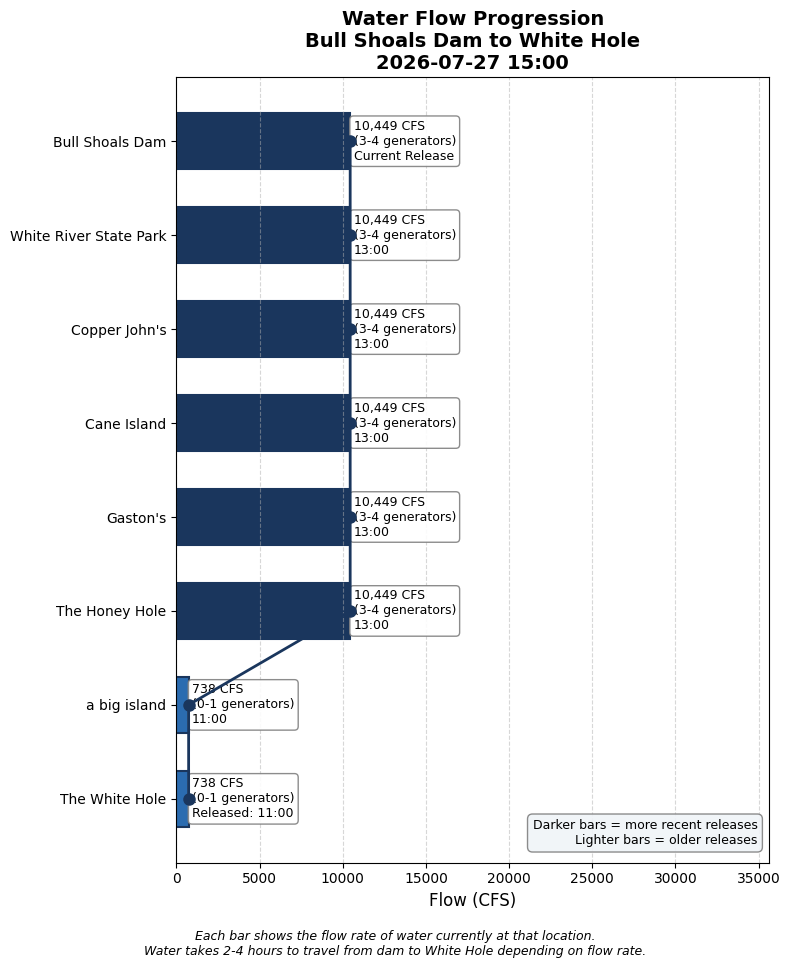
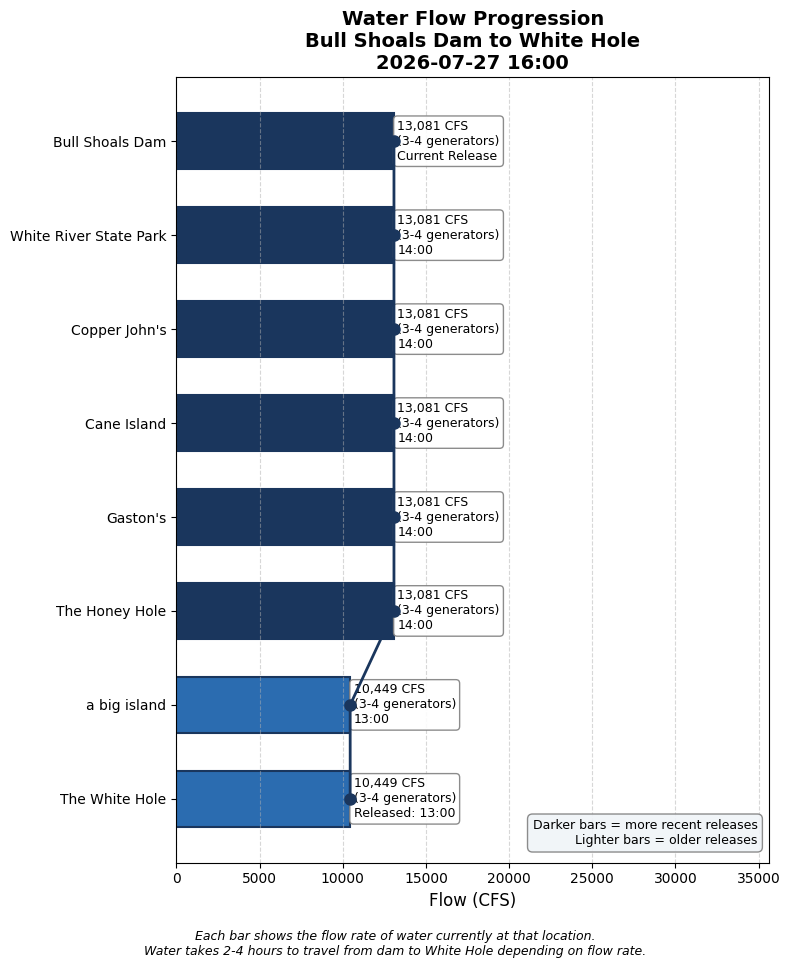
Update water conditions 2026-07-27 16:00

Changed region(s): [[0.2127, 0.093, 0.638, 0.8678]]

diff --git a/white_hole_conditions.html b/white_hole_conditions.html
@@ -3,7 +3,7 @@
 <head>
     <meta charset="UTF-8">
     <meta name="viewport" content="width=device-width, initial-scale=1.0">
-    <title>White Hole Conditions - 2026-07-27 15:00</title>
+    <title>White Hole Conditions - 2026-07-27 16:00</title>
     <style>
         body {
             font-family: -apple-system, BlinkMacSystemFont, 'Segoe UI', Roboto, sans-serif;
@@ -23,7 +23,7 @@
             margin-bottom: 20px;
         }
         .headline-banner {
-            background-color: #319795;
+            background-color: #1a365d;
             color: white;
             border-radius: 12px;
             padding: 25px;
@@ -73,12 +73,12 @@
             font-weight: 500;
         }
         .pill.wading {
-            background-color: #d1fae5;
-            color: #065f46;
+            background-color: #fee2e2;
+            color: #991b1b;
         }
         .pill.boating {
-            background-color: #fef3c7;
-            color: #92400e;
+            background-color: #fee2e2;
+            color: #991b1b;
         }
         .timeline-box {
             background-color: white;
@@ -148,23 +148,23 @@
 </head>
 <body>
     <h1>White Hole Current Conditions</h1>
-    <p class="subtitle">Monday, July 27, 2026 at 03:00 PM</p>
+    <p class="subtitle">Monday, July 27, 2026 at 04:00 PM</p>
 
     <!-- HEADLINE BANNER -->
     <div class="headline-banner">
-        <div class="main-status">✅ GOOD WADING — Conditions favorable</div>
-        <div class="forecast-status">⏱ RISING WATER arriving in ~39 minutes</div>
-        <div class="forecast-status" style="margin-top: 5px; opacity: 0.9;">📅 HIGH WATER SCHEDULED — ~5:14 PM</div>
+        <div class="main-status">🚫 NO WADING — Water too high for safe wading</div>
+        <div class="forecast-status">⏱ RISING WATER arriving in ~26 minutes</div>
+        
     </div>
 
     <!-- CURRENT CONDITIONS -->
     <div class="current-conditions">
         <h3>Current Conditions at White Hole</h3>
-        <div class="flow-display">738 CFS</div>
-        <div class="generator-display">Equivalent to 0-1 generators</div>
+        <div class="flow-display">10,449 CFS</div>
+        <div class="generator-display">Equivalent to 3-4 generators</div>
         <div class="condition-pills">
-            <span class="pill wading">Excellent Wading</span>
-            <span class="pill boating">Low For Boating</span>
+            <span class="pill wading">No Wading</span>
+            <span class="pill boating">High Water</span>
         </div>
         <a href="https://www.youtube.com/channel/UCAXhb9nFnsfu367AthDrgIA/live" target="_blank" class="webcam-link" style="margin-top: 15px;">
             📹 View Live Webcam
@@ -188,7 +188,15 @@
                     
                 <tr><td colspan="3" style="padding: 8px 10px; font-size: 0.8em; font-weight: bold; color: #6b46c1; text-transform: uppercase; letter-spacing: 0.05em; background-color: #f3e8ff;">Scheduled (SWPA forecast)</td></tr>
                 
-                    <tr style="background-color: #faf5ff; border-left: 4px solid #e53e3e;">
+                    <tr style="background-color: #faf5ff; ">
+                        <td style="padding: 10px; font-weight: bold;">7 PM</td>
+                        <td style="padding: 10px;">19,831 CFS<br><small style="color: #666;">(6 generators: 19581 generation + 250 min flow)</small></td>
+                        <td style="padding: 10px;">~9:04 PM
+                            <span style="display: inline-block; margin-left: 6px; padding: 2px 8px; border-radius: 12px; font-size: 0.8em; background-color: #fee2e2; color: #991b1b;">No Wading</span>
+                        </td>
+                    </tr>
+                
+                    <tr style="background-color: #faf5ff; ">
                         <td style="padding: 10px; font-weight: bold;">6 PM</td>
                         <td style="padding: 10px;">17,130 CFS<br><small style="color: #666;">(5-6 generators: 16880 generation + 250 min flow)</small></td>
                         <td style="padding: 10px;">~8:12 PM
@@ -196,7 +204,7 @@
                         </td>
                     </tr>
                 
-                    <tr style="background-color: #faf5ff; border-left: 4px solid #e53e3e;">
+                    <tr style="background-color: #faf5ff; ">
                         <td style="padding: 10px; font-weight: bold;">5 PM</td>
                         <td style="padding: 10px;">17,805 CFS<br><small style="color: #666;">(5-6 generators: 17555 generation + 250 min flow)</small></td>
                         <td style="padding: 10px;">~7:10 PM
@@ -204,18 +212,10 @@
                         </td>
                     </tr>
                 
-                    <tr style="background-color: #faf5ff; border-left: 4px solid #e53e3e;">
+                    <tr style="background-color: #faf5ff; ">
                         <td style="padding: 10px; font-weight: bold;">4 PM</td>
                         <td style="padding: 10px;">16,455 CFS<br><small style="color: #666;">(4-5 generators: 16205 generation + 250 min flow)</small></td>
                         <td style="padding: 10px;">~6:14 PM
-                            <span style="display: inline-block; margin-left: 6px; padding: 2px 8px; border-radius: 12px; font-size: 0.8em; background-color: #fee2e2; color: #991b1b;">No Wading</span>
-                        </td>
-                    </tr>
-                
-                    <tr style="background-color: #faf5ff; border-left: 4px solid #e53e3e;">
-                        <td style="padding: 10px; font-weight: bold;">3 PM</td>
-                        <td style="padding: 10px;">16,455 CFS<br><small style="color: #666;">(4-5 generators: 16205 generation + 250 min flow)</small></td>
-                        <td style="padding: 10px;">~5:14 PM
                             <span style="display: inline-block; margin-left: 6px; padding: 2px 8px; border-radius: 12px; font-size: 0.8em; background-color: #fee2e2; color: #991b1b;">No Wading</span>
                         </td>
                     </tr>
@@ -225,26 +225,20 @@
                 <tr><td colspan="3" style="padding: 8px 10px; font-size: 0.8em; font-weight: bold; color: #2b6cb0; text-transform: uppercase; letter-spacing: 0.05em; background-color: #ebf8ff;">Actual (dam readings)</td></tr>
                 
                     <tr style="background-color: #ebf8ff;">
-                        <td style="padding: 10px; font-weight: bold;">1:00 PM</td>
-                        <td style="padding: 10px;">10,449 CFS<br><small style="color: #666;">(3-4 generators)</small></td>
-                        <td style="padding: 10px;"><span style="color: #2b6cb0;">→ Arrives ~3:37 PM (in 37 min)</span></td>
-                    </tr>
-                
-                    <tr style="background-color: #ebf8ff;">
-                        <td style="padding: 10px; font-weight: bold;">12:00 PM</td>
-                        <td style="padding: 10px;">3,537 CFS<br><small style="color: #666;">(1 generator)</small></td>
-                        <td style="padding: 10px;"><span style="color: #2b6cb0;">→ Arrives ~3:39 PM (in 39 min)</span></td>
+                        <td style="padding: 10px; font-weight: bold;">2:00 PM</td>
+                        <td style="padding: 10px;">13,081 CFS<br><small style="color: #666;">(3-4 generators)</small></td>
+                        <td style="padding: 10px;"><span style="color: #2b6cb0;">→ Arrives ~4:26 PM (in 26 min)</span></td>
                     </tr>
                 
                     <tr style="background-color: #e6fffa;">
-                        <td style="padding: 10px; font-weight: bold;">11:00 AM</td>
-                        <td style="padding: 10px;">738 CFS<br><small style="color: #666;">(0-1 generators)</small></td>
+                        <td style="padding: 10px; font-weight: bold;">1:00 PM</td>
+                        <td style="padding: 10px;">10,449 CFS<br><small style="color: #666;">(3-4 generators)</small></td>
                         <td style="padding: 10px;"><span style="color: #319795; font-weight: bold;">← AT WHITE HOLE NOW</span></td>
                     </tr>
                 
                     <tr style="">
-                        <td style="padding: 10px; font-weight: bold;">8:00 AM</td>
-                        <td style="padding: 10px;">757 CFS<br><small style="color: #666;">(0-1 generators)</small></td>
+                        <td style="padding: 10px; font-weight: bold;">9:00 AM</td>
+                        <td style="padding: 10px;">762 CFS<br><small style="color: #666;">(0-1 generators)</small></td>
                         <td style="padding: 10px;"><span style="color: #718096;">passed</span></td>
                     </tr>
                 
@@ -274,9 +268,9 @@
         </summary>
         <div style="padding: 15px;">
             <ul>
-                <li>Latest dam reading: 10,449 CFS at 2026-07-27 13:00</li>
-                <li>Travel time to White Hole: 3.7 hours at current flow</li>
-                <li>White Hole conditions based on dam reading from: 2026-07-27 11:00</li>
+                <li>Latest dam reading: 13,081 CFS at 2026-07-27 14:00</li>
+                <li>Travel time to White Hole: 2.6 hours at current flow</li>
+                <li>White Hole conditions based on dam reading from: 2026-07-27 13:00</li>
             </ul>
         </div>
     </details>
@@ -298,6 +292,13 @@
                     </thead>
                     <tbody>
                         
+                <tr style="border-bottom: 1px solid #eee;">
+                    <td style="padding: 8px;">2026-07-27 14:00</td>
+                    <td style="padding: 8px; text-align: right;">13081</td>
+                    <td style="padding: 8px; text-align: right;">4.0</td>
+                    <td style="padding: 8px; text-align: right;">2.4</td>
+                </tr>
+                
                 <tr style="border-bottom: 1px solid #eee;">
                     <td style="padding: 8px;">2026-07-27 13:00</td>
                     <td style="padding: 8px; text-align: right;">10449</td>
@@ -361,13 +362,6 @@
                     <td style="padding: 8px; text-align: right;">3.7</td>
                 </tr>
                 
-                <tr style="border-bottom: 1px solid #eee;">
-                    <td style="padding: 8px;">2026-07-27 04:00</td>
-                    <td style="padding: 8px; text-align: right;">759</td>
-                    <td style="padding: 8px; text-align: right;">0.2</td>
-                    <td style="padding: 8px; text-align: right;">3.7</td>
-                </tr>
-                
                     </tbody>
                 </table>
             </div>
@@ -375,7 +369,7 @@
         
 
     <div class="timestamp">
-        Data retrieved and processed on 2026-07-27 15:00:09
+        Data retrieved and processed on 2026-07-27 16:00:08
     </div>
 </body>
 </html>
